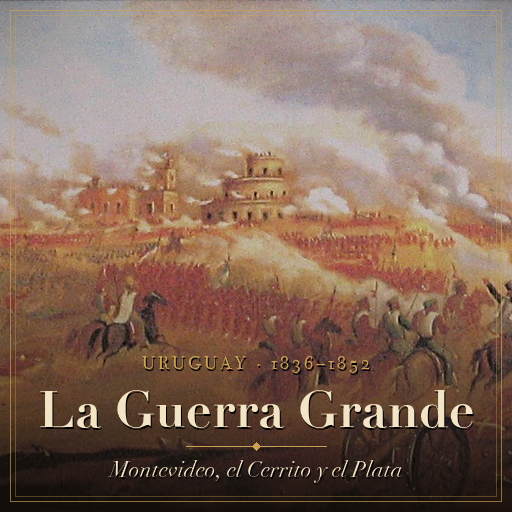
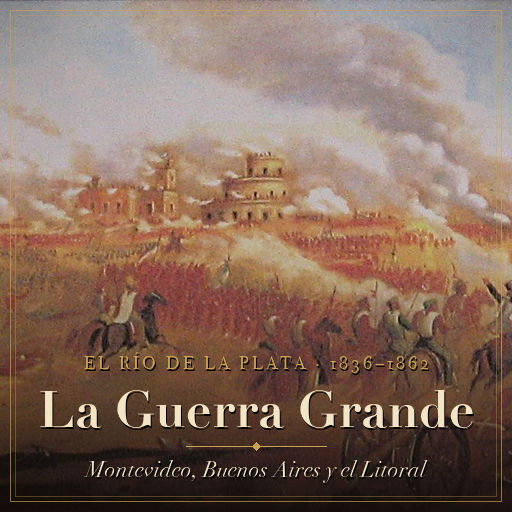
Title: the Río de la Plata, 1836-1862, both banks (Juan)
Claude-Session: https://claude.ai/code/session_01C99SsUEjjpxG6b2jwsoZ8e

Changed region(s): [[0.1562, 0.6875, 0.8438, 0.75], [0.1562, 0.875, 0.8438, 0.9375]]

diff --git a/README.md b/README.md
@@ -1,4 +1,4 @@
-# Guerra Grande — Uruguay, 1836-1852
+# Guerra Grande — el Río de la Plata, 1836-1862
 
 Victoria 3 (1.13). La Guerra Grande oriental: el nacimiento de las divisas blanca y colorada en
 Carpintería, la partición de la República en el gobierno de la **Defensa** (Montevideo) y el del
